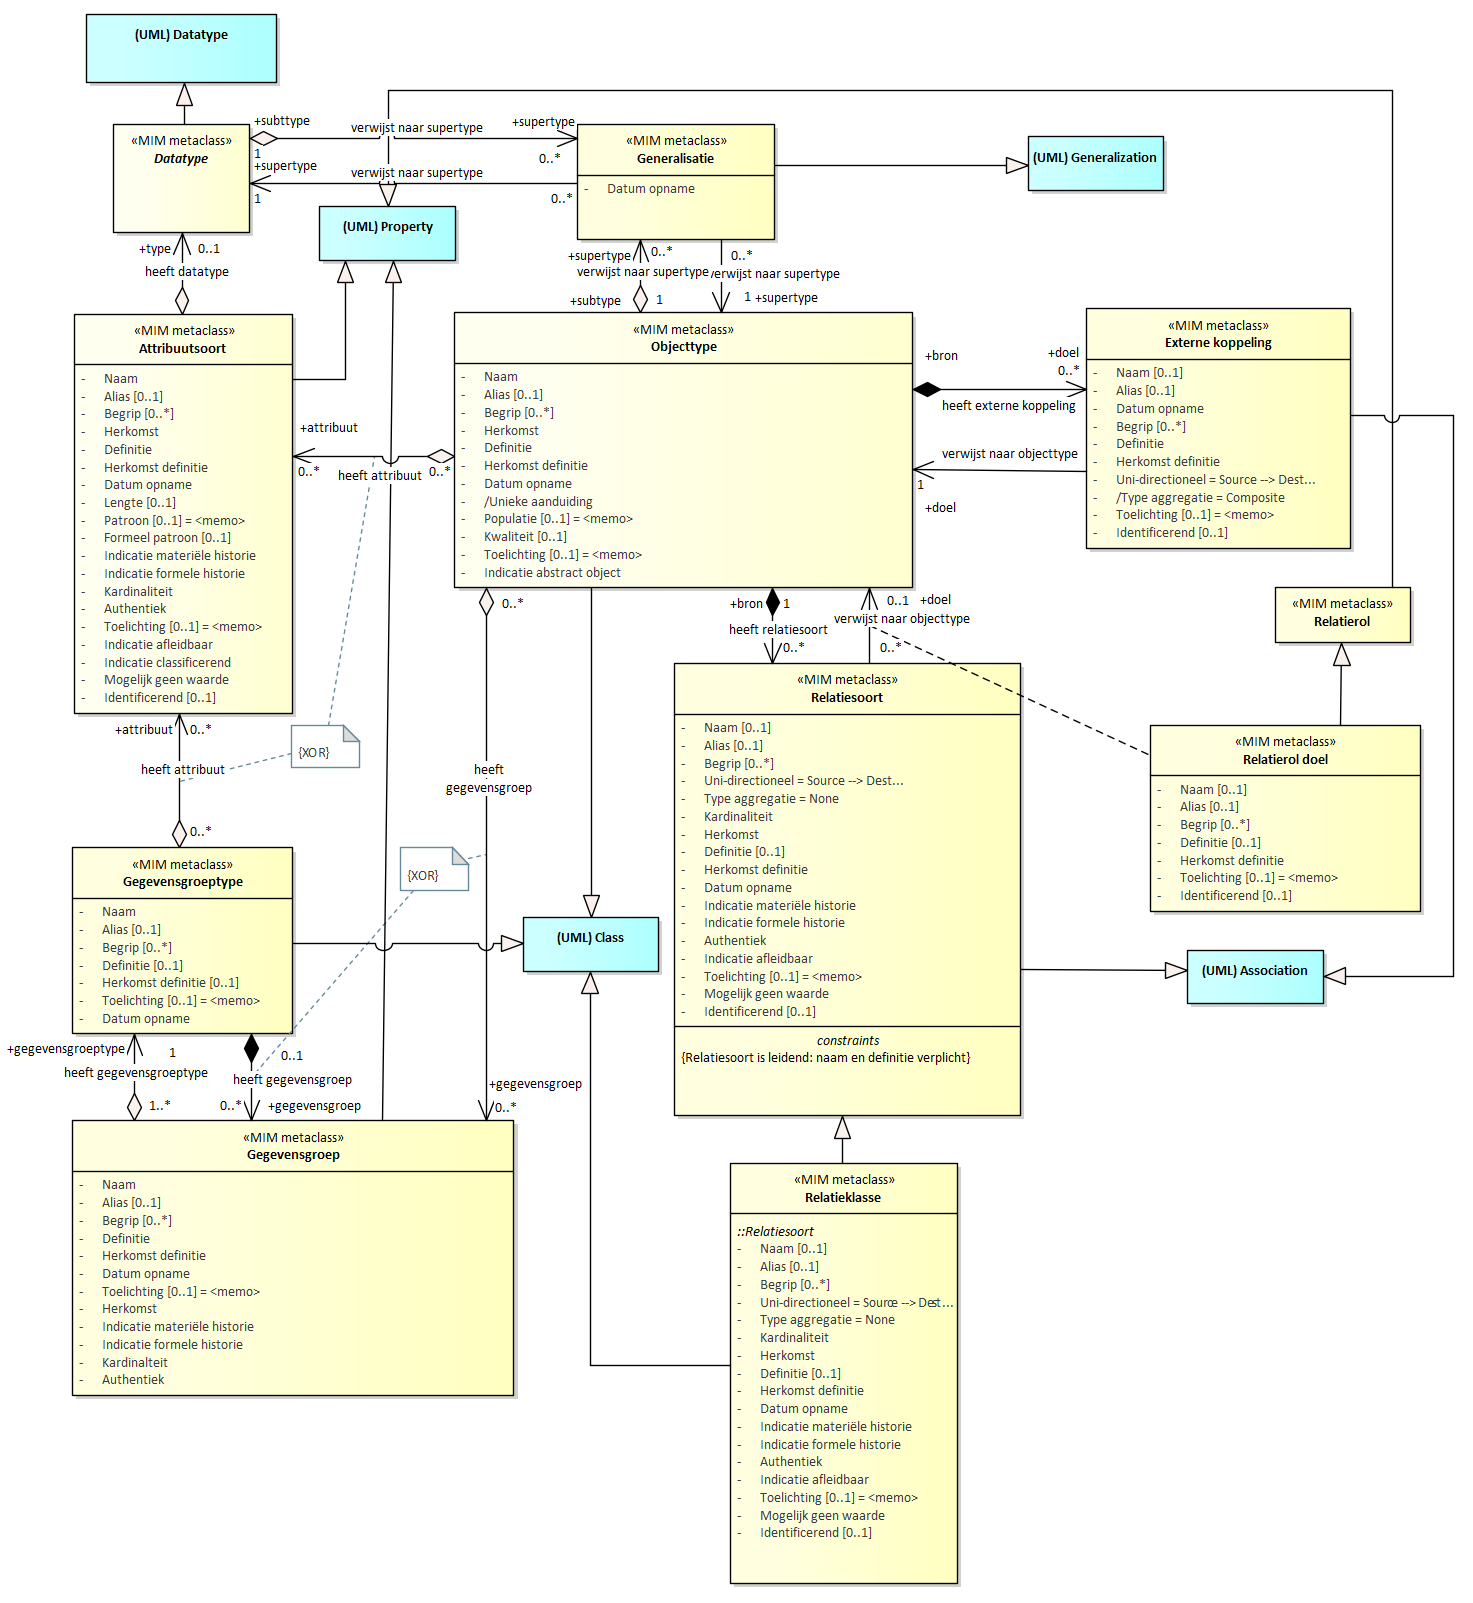
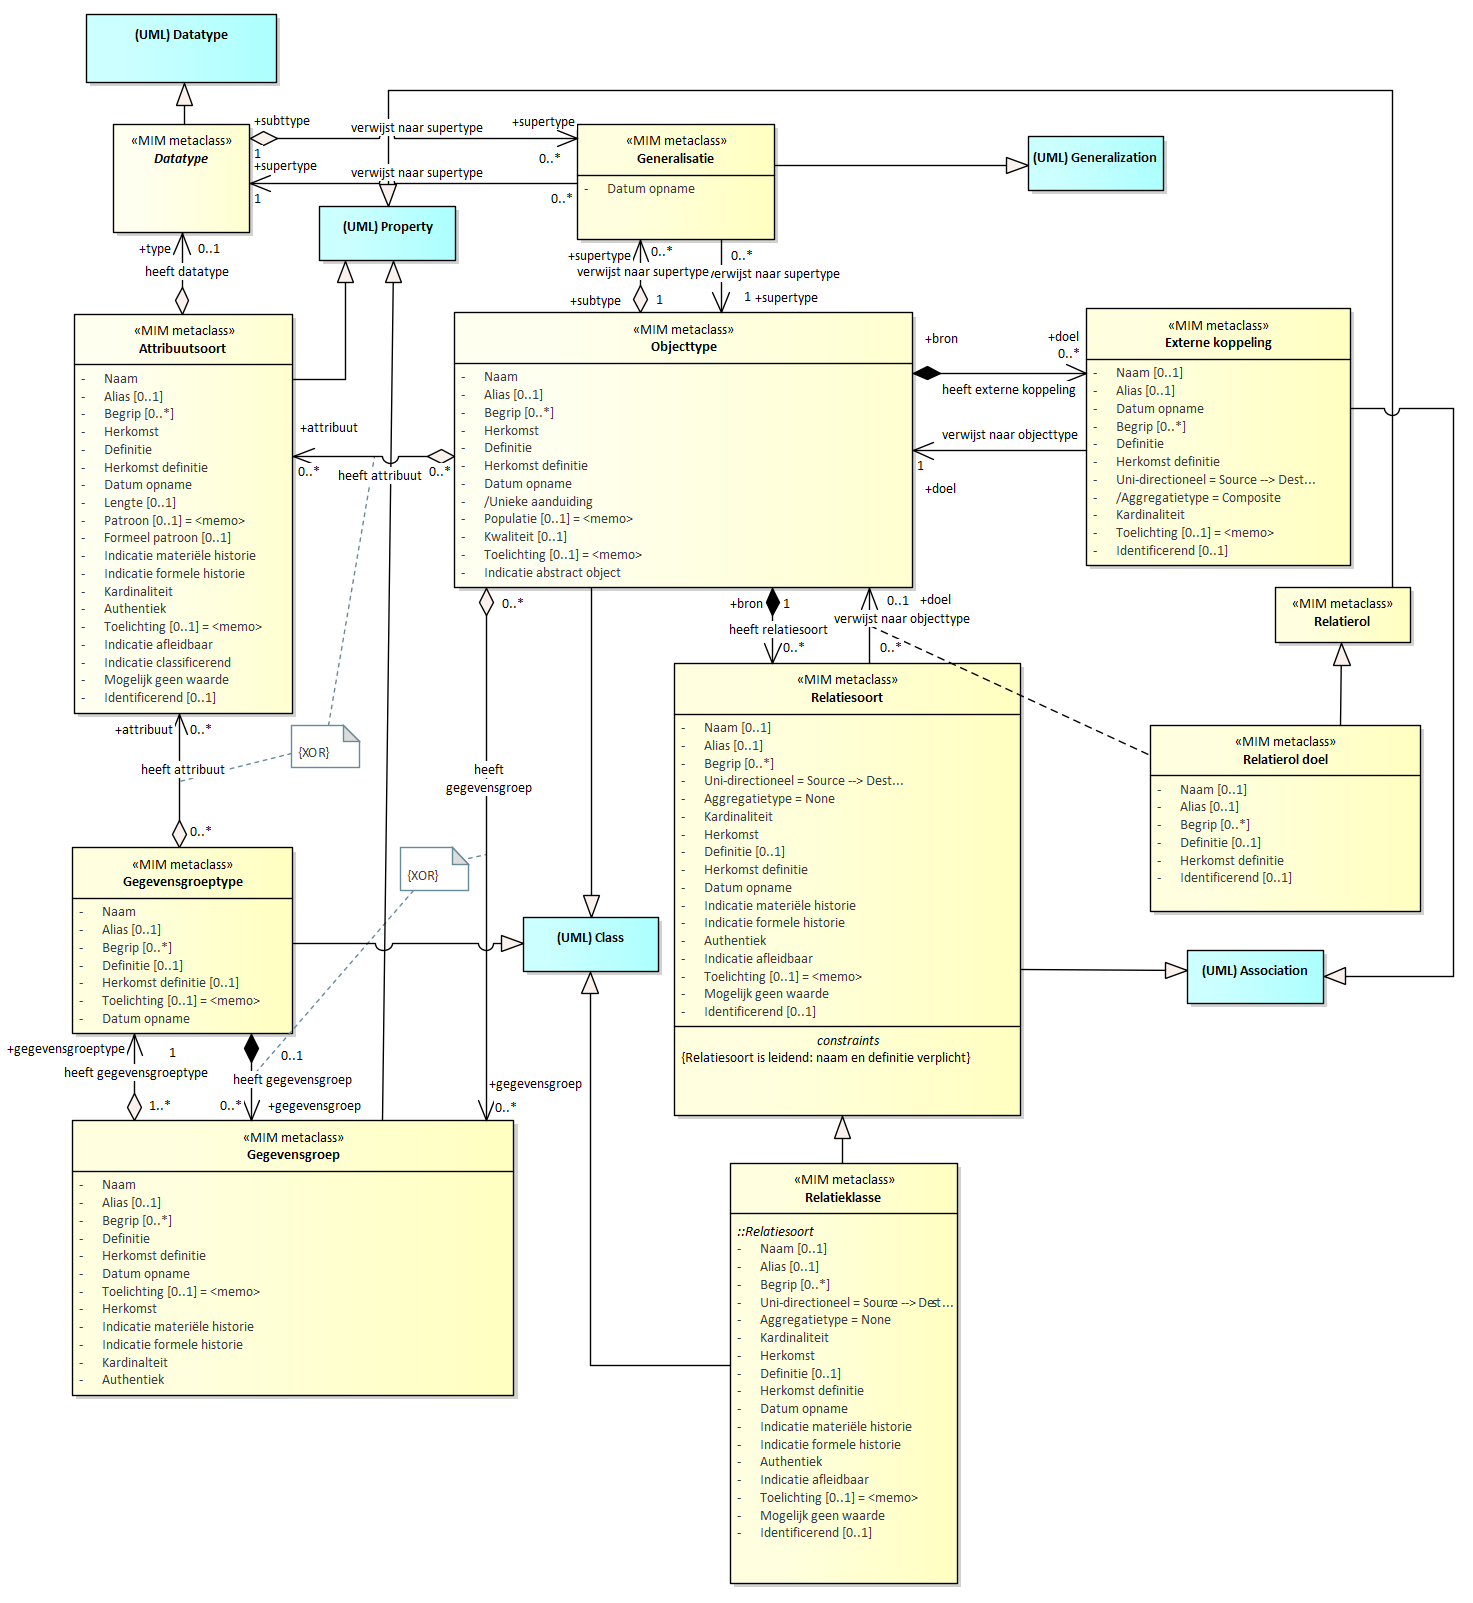
verwerkt

diff --git a/MetamodelUML.md b/MetamodelUML.md
@@ -442,6 +442,7 @@ Externe koppelingen worden naar de volgende aspecten gespecificeerd.
 | **Begrip**           | 0..\*              | Algemeen metagegeven.                      |                                                     |      | *Tagged value*                                               |            |
 | **Alias**            | 0..1               | Algemeen metagegeven.                      | *UML-Property*                                      |      | *Alias*                                                      |            |
 | **Datum opname**     | 1                  | Algemeen metagegeven.                      |                                                     |      | *Tagged value*                                               |            |
+| **Kardinaliteit√**                | 1                  | Algemeen metagegeven. | *lowerValue en upperValue van de metaclass MultiplicityElement* |      | *Multiplicity van de target role*                            |            |
 | **Unidirectioneel**  | 1                  | Algemeen metagegeven.                      |                                                     |      | *Direction van de betreffende assiciation (van source naar target)* |            |
 | **Relatie eigenaar** | 1                  | Algemeen metagegeven.                      | */source: related Element bij Relationship Element* |      | *Source*                                                     |            |
 | **Relatie doel**     | 1                  | Algemeen metagegeven.                      | */target: related Element bij Relationship Element* |      | *Target*                                                     |            |

diff --git a/MetamodelAlgemeen.md b/MetamodelAlgemeen.md
@@ -873,7 +873,7 @@ Dit kan bijvoorbeeld uitgebreid worden met: "technisch" wanneer er behoefte is o
 *Toelichting* 
 Dit kan zijn "Relatiesoort leidend" of "Relatierol leidend". Dit
 betreft de keuze die je maakt voor het in paragraaf [Alternatieven](#alternatieven) gekozen
-alternatief. Er moet een keuze gemaakt worden.
+alternatief. Er moet een keuze gemaakt worden. Deze keuze geldt primair voor de modelelementen relatiesoort en relatiedoel zoals bedoeld in 3.2.2. maar geldt in het verlengde hiervan voor het modelelement externe koppeling.
 
 *Toepassing*: informatiemodel (verplicht)
 
